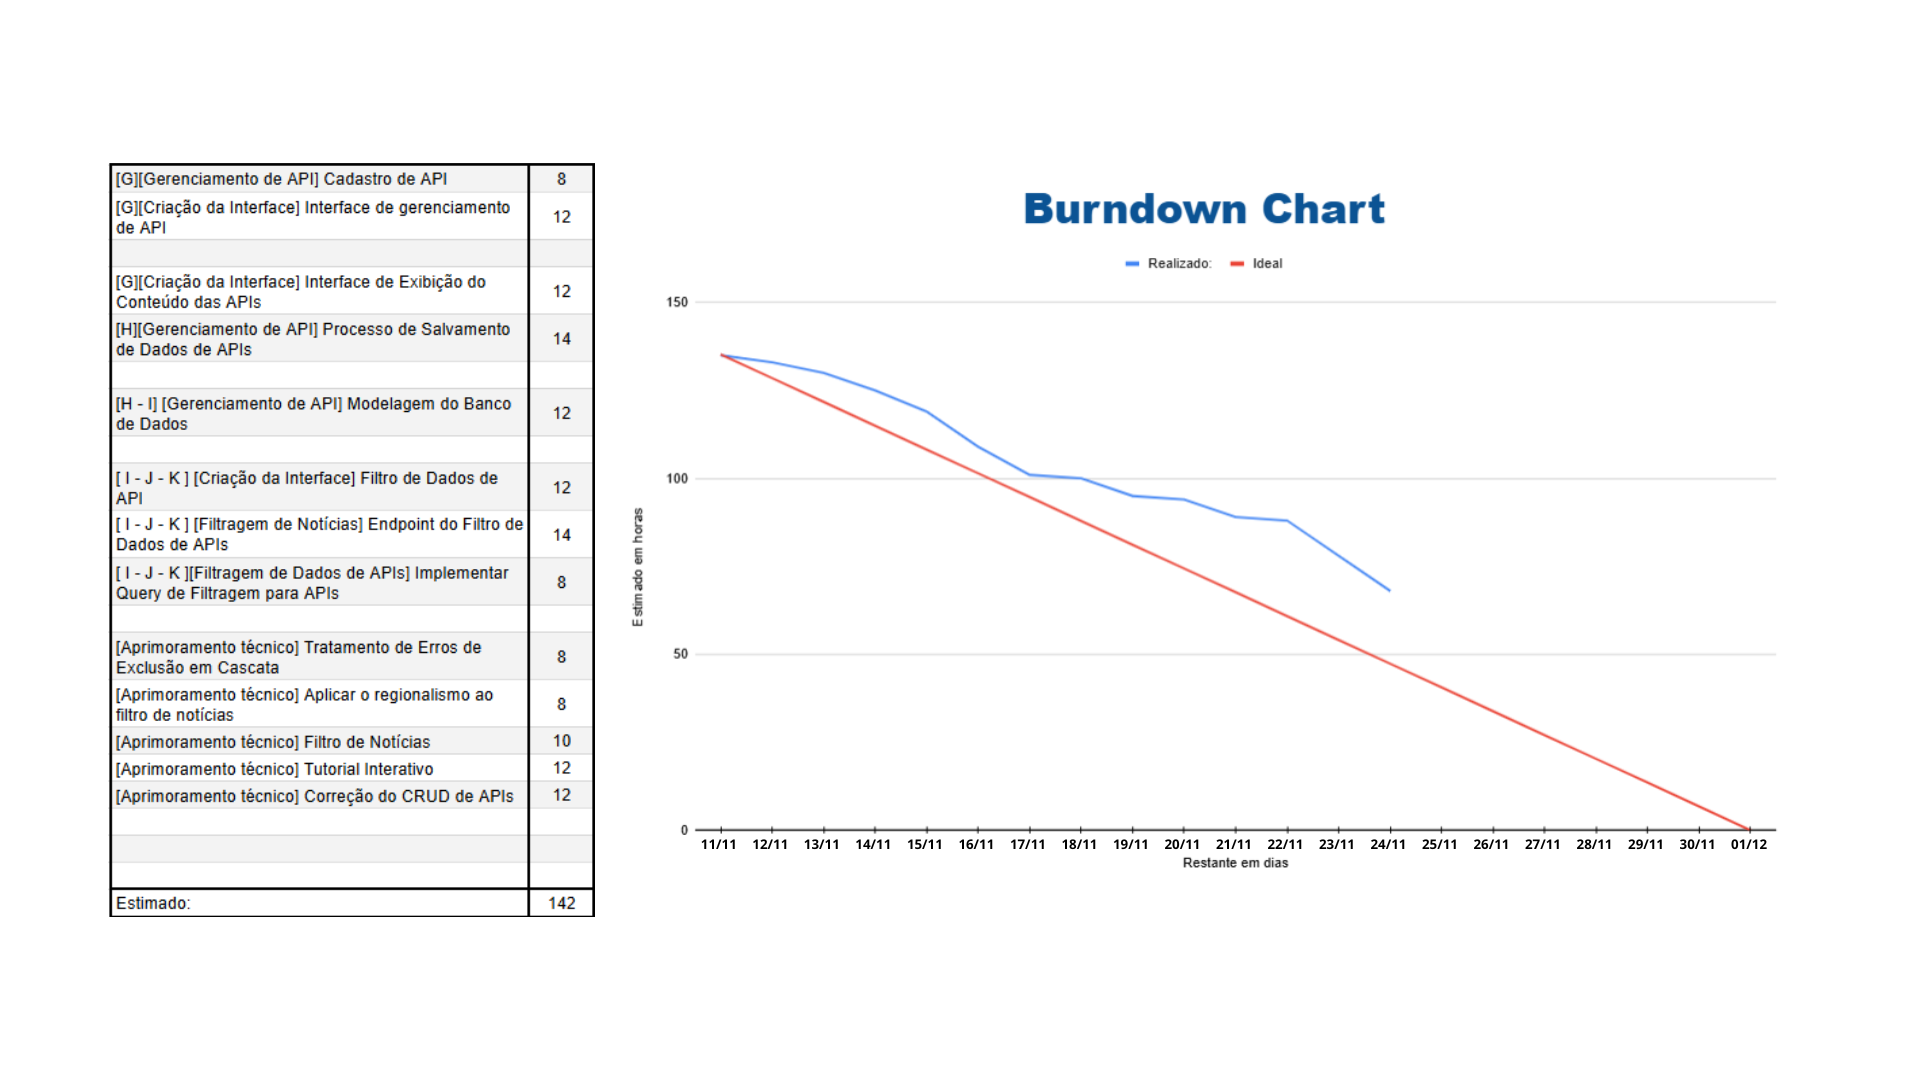
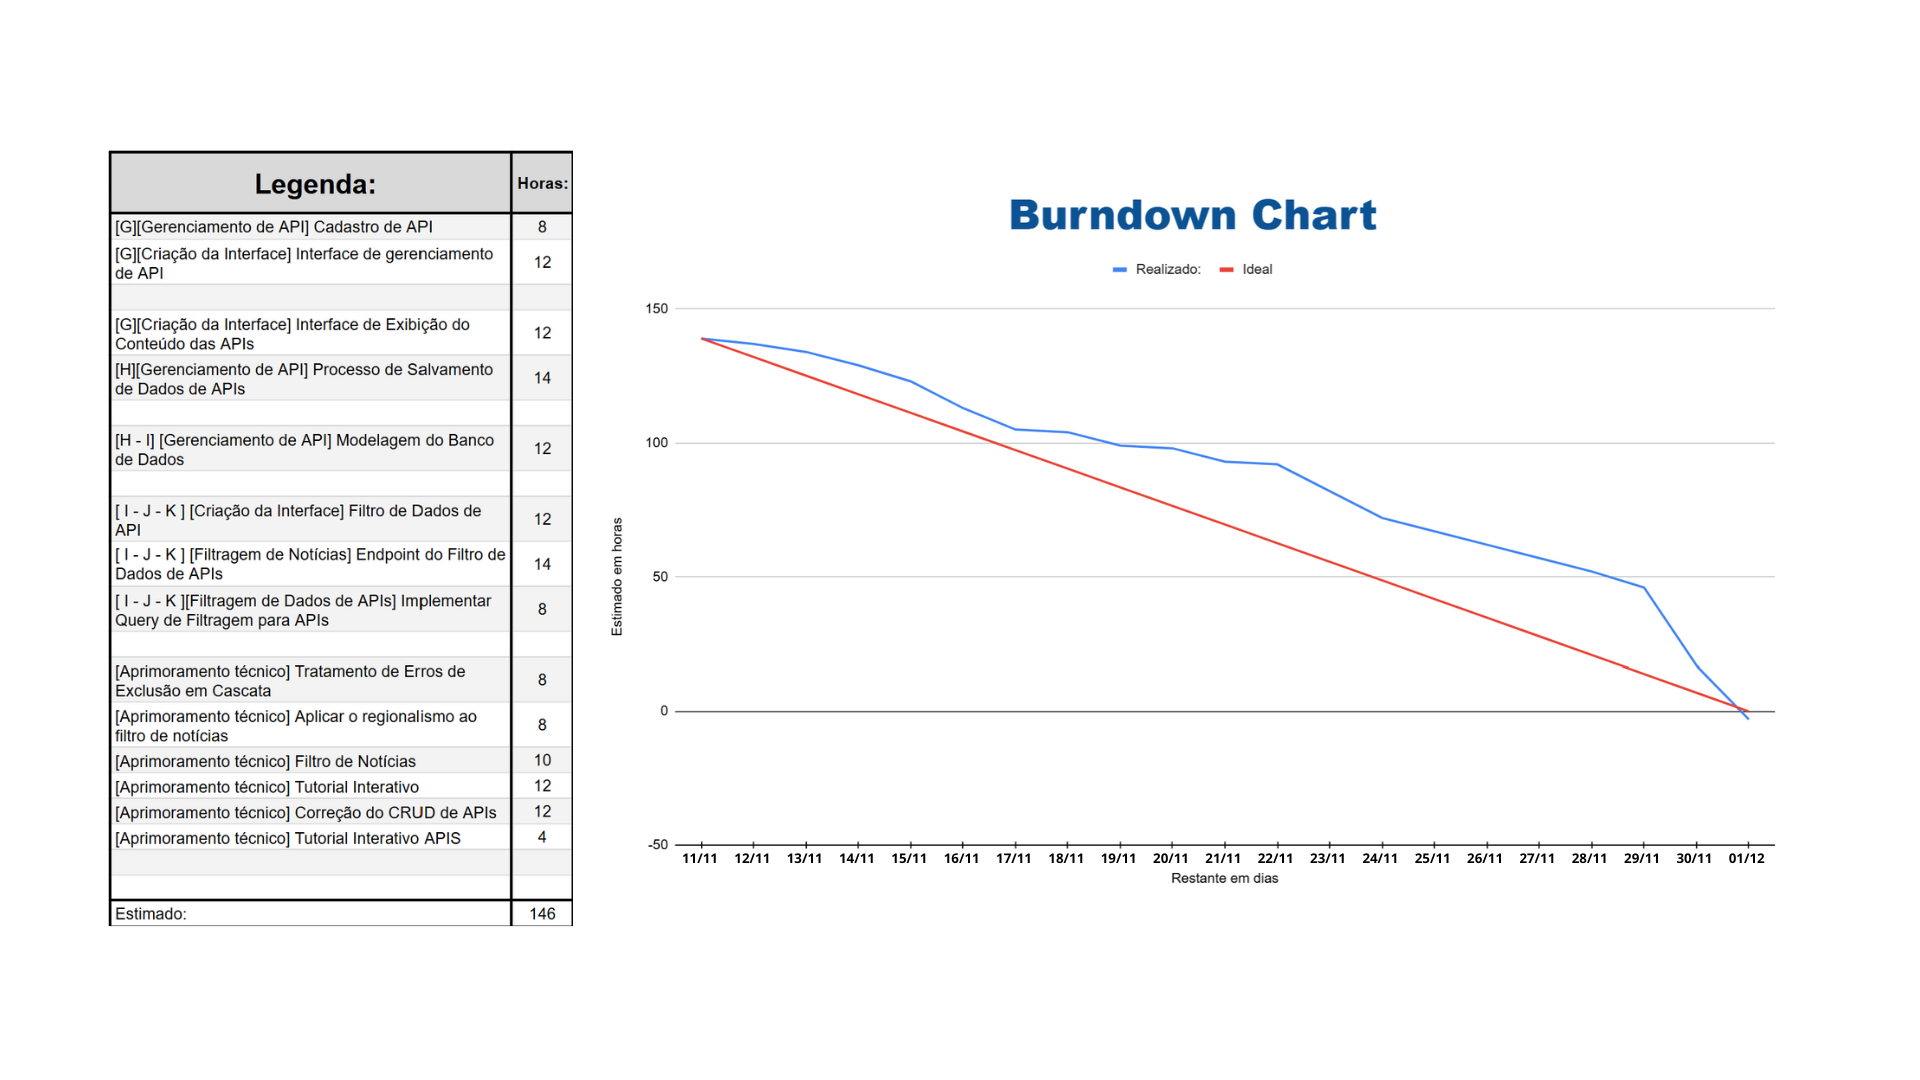
Documentation sprint 4 (#157)
* Atualização Sprint 4

* Atualização Gráfico Burndown Sprint 4

diff --git a/README.md b/README.md
@@ -86,7 +86,7 @@ Criar um mecanismo para mapeamento de portais de notícias estratégicas, com ca
 |  1  | Sprint 1   | 09/09   | 29/09 | Ok |
 |  2  | Sprint 2   | 30/09   | 20/10 | Ok |
 |  3  | Sprint 3   | 21/10   | 10/11 | Ok |
-|  4  | Sprint 4   | 11/11   | 30/11 |  |
+|  4  | Sprint 4   | 11/11   | 30/11 | Ok |
 |  5  | Feira de Soluções  | 12/12     |
 
 <br>
